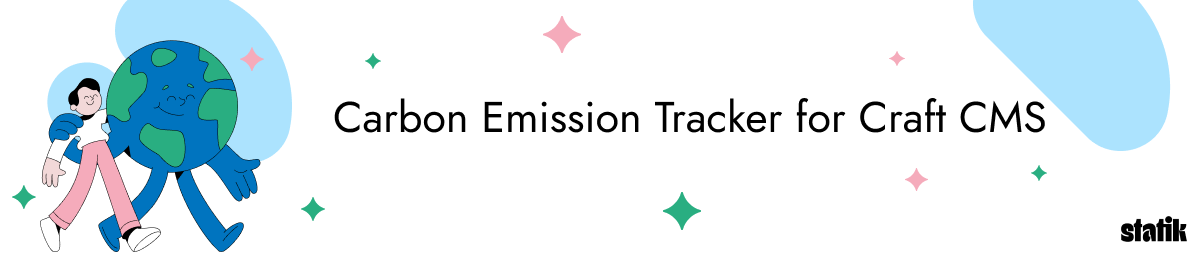
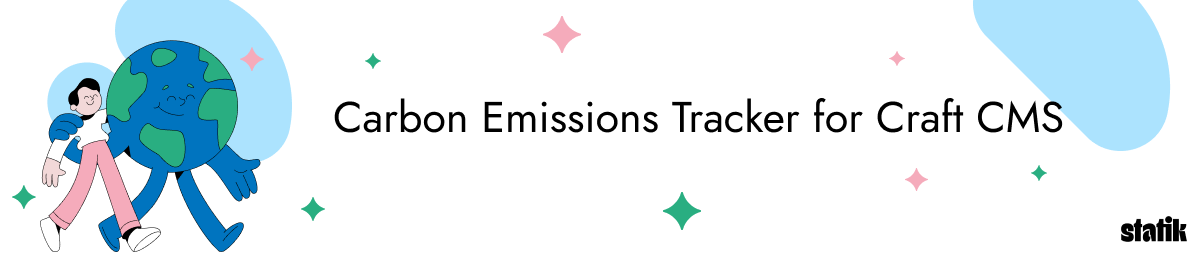
More copy

Changed region(s): [[0.5242, 0.3843, 0.8942, 0.5216]]

diff --git a/README.md b/README.md
@@ -1,6 +1,6 @@
 <img src="img/github_banner.png" alt="">
 
-# Carbon Emission Tracker for Craft CMS
+# Carbon Emissions Tracker for Craft CMS
 
 Carbon tracker aims to raise awareness of the carbon emissions created by webpages, by displaying these insights along side the content in Craft's control panel.
 
